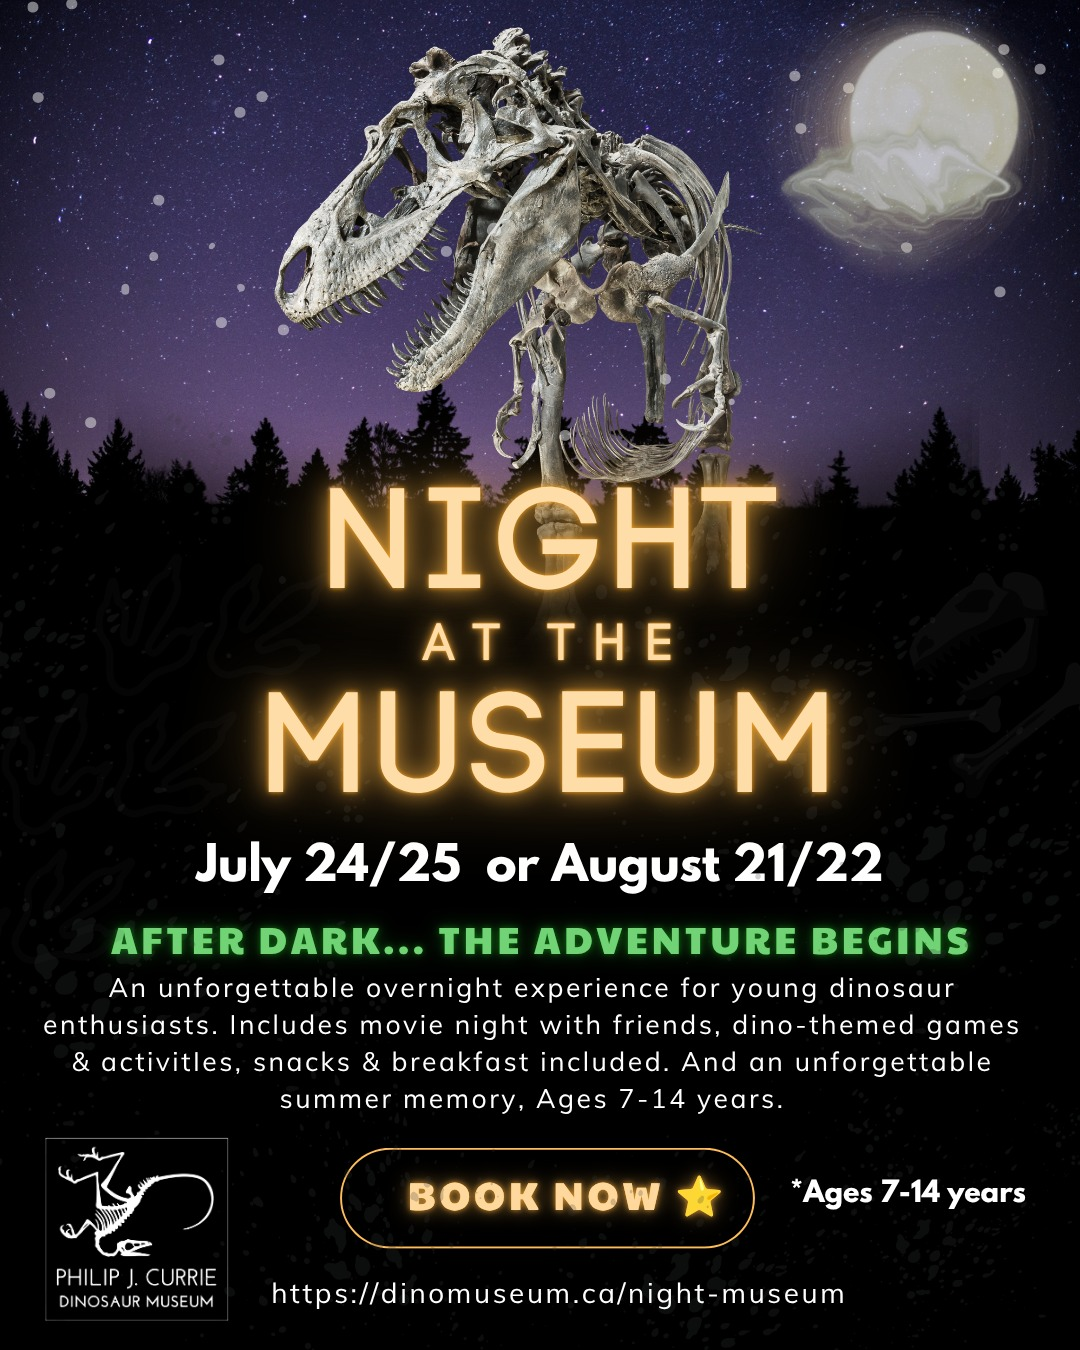
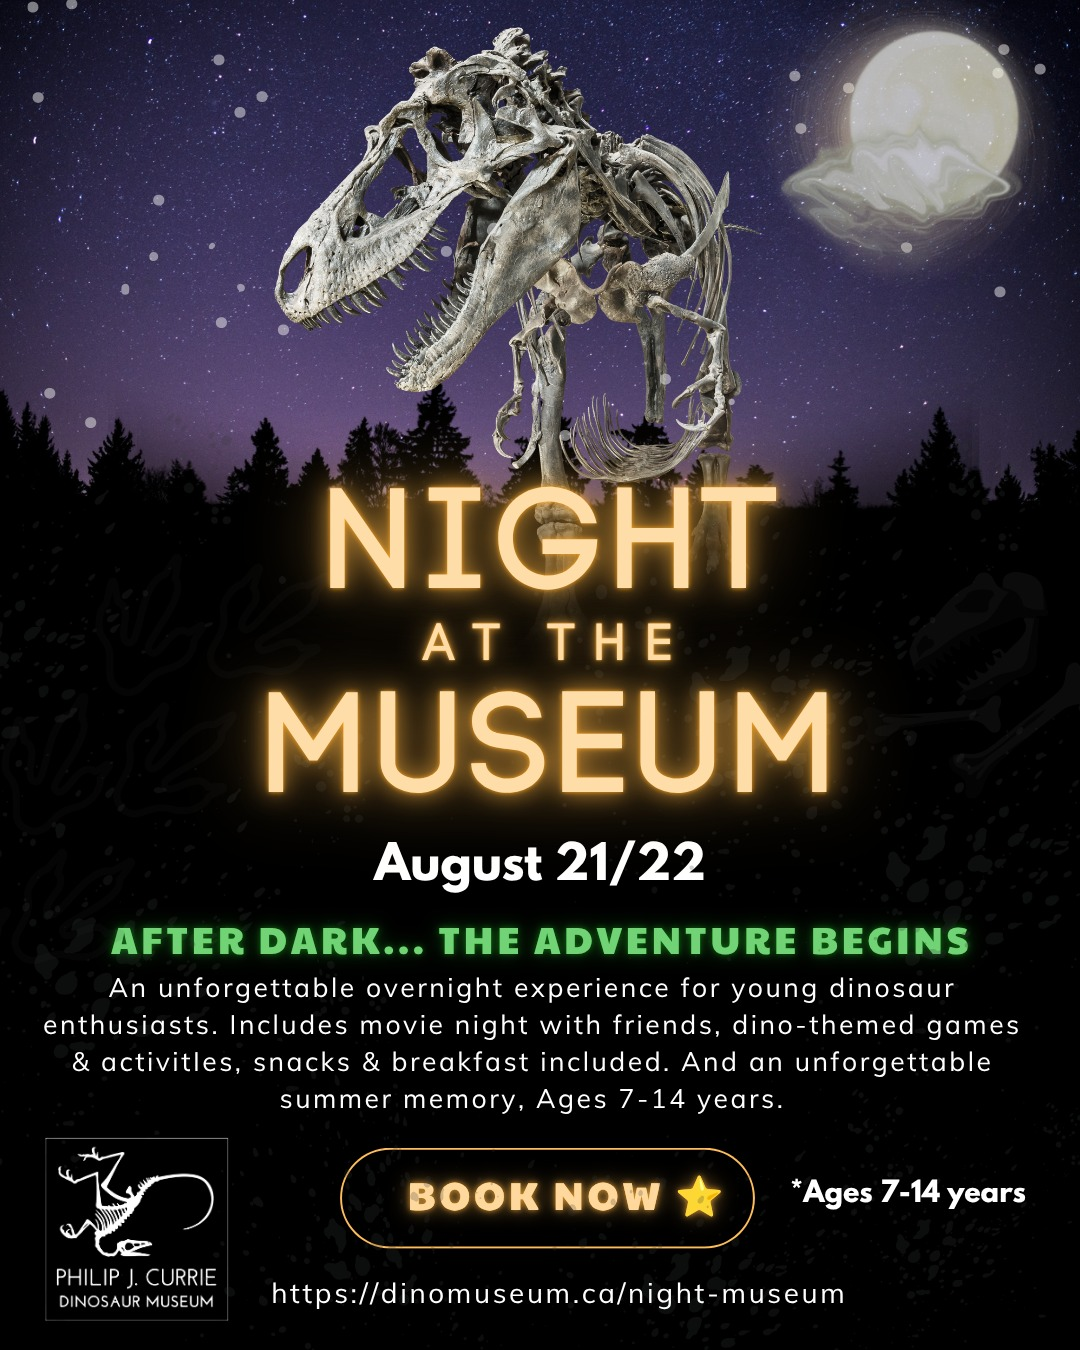
feat: added some events

Changed region(s): [[0.1833, 0.6222, 0.825, 0.6844]]

diff --git a/src/content/events/2026-08-23-franks-lectures-dinosaurs.md b/src/content/events/2026-08-23-franks-lectures-dinosaurs.md
@@ -1,0 +1,32 @@
+---
+title: 'Hunting Giants: The Dinosaurs of Alberta'
+start: '2026-08-23T18:00:00-06:00'
+end: '2026-08-23T20:00:00-06:00'
+type: 'External'
+host: "Frank's Lectures On Tap"
+location: 'Franks Community Pub, 8815 99 St NW, Edmonton, AB'
+image:
+    src: '/events/2026/external/frankslectures-pjc.jpg'
+    alt: "Frank's Lectures On Tap featuring Dr. Philip Currie — Hunting Giants: The Dinosaurs of Alberta"
+detailsLink: 'https://www.showpass.com/franks-lectures-dinosaurs/'
+---
+
+Featuring Professor of Dinosaur Palaeobiology **Dr. Philip Currie**.
+
+**When:** Sunday, August 23, 2026, 6:00 PM – 8:00 PM  
+**Where:** Franks Community Pub, 8815 99 St NW, Edmonton, AB  
+**Cost:** $28.41 CAD  
+
+More than a century ago, Alberta became the epicentre of one of the greatest fossil discoveries in history. Beginning with the “Great Canadian Dinosaur Rush” in 1910, hundreds of spectacular dinosaur skeletons were unearthed from Alberta’s Badlands and shipped to museums around the world, forever changing our understanding of prehistoric life.
+
+Join world-renowned palaeontologist Dr. Philip Currie as he explores the remarkable history of dinosaur discovery in Alberta, from the early fossil expeditions and the birth of Dinosaur Provincial Park and the Royal Tyrrell Museum, to the “Dinosaur Renaissance” that transformed how scientists think about dinosaur behaviour, evolution, and biology.
+
+Today, Alberta remains one of the world’s most important places for dinosaur research. New species continue to be discovered, and advances in technology are revealing extraordinary details about these ancient animals, from feathers and soft tissues to how they lived, hunted, and evolved. Discover why Alberta continues to be at the forefront of palaeontology and why our Badlands still hold secrets waiting to be uncovered.
+
+### Dr. Philip J. Currie
+
+Philip J. Currie is a Professor at the University of Alberta and has published more than 350 scientific papers, 175 popular articles, and 20 books. His fieldwork has taken him across Alberta, British Columbia, Argentina, China, Mongolia, the Arctic, and Antarctica. His many honours include the Alberta Order of Excellence (2010), The Explorers Club Medal (2012), the Royal Canadian Geographical Society Gold Medal (2012), the Romer/Simpson Medal from the Society of Vertebrate Paleontology (2017), and the Roy Chapman Andrews Society Distinguished Explorer’s Award (2022).
+
+Currie is especially proud of his role in developing the Royal Tyrrell Museum of Palaeontology. In 2015, he was honoured with the opening of the Philip J. Currie Dinosaur Museum in Wembley, Alberta. He has supervised more than 30 graduate students, delivered hundreds of lectures on dinosaurs around the world, and is a frequent media commentator on paleontology.
+
+Tickets are available on [Showpass](https://www.showpass.com/franks-lectures-dinosaurs/).

diff --git a/src/content/events/2026-08-21-pjcdm-night-at-museum.md b/src/content/events/2026-08-21-pjcdm-night-at-museum.md
@@ -11,9 +11,21 @@ image:
 detailsLink: 'https://dinomuseum.ca/night-museum'
 ---
 
-Give your young dinosaur enthusiast an unforgettable night at the Philip J. Currie Dinosaur Museum! They'll explore the museum after hours, enjoy a movie with new friends, dive into dinosaur-themed games and activities, and spend the night surrounded by giants from 73 million years ago.
+The museum closes to the public… but your adventure is just beginning.
 
-It's an unforgettable overnight adventure designed for dinosaur enthusiasts **ages 7–14**. Snacks and breakfast are included.
+Imagine spending the night surrounded by towering dinosaurs, exploring the galleries after hours, and experiencing the Philip J. Currie Dinosaur Museum in a way few ever do.
+
+Night at the Museum is an unforgettable overnight experience where young explorers will enjoy:
+
+- Exclusive after-hours access to the museum
+- Flashlight adventures through the galleries
+- A dinosaur movie on the big screen
+- Games, activities, and hands-on discovery
+- A sleepover beneath incredible dinosaur skeletons
+
+Whether it's their first museum sleepover or their biggest dinosaur adventure yet, this is a night they'll be talking about long after morning arrives.
+
+It's designed for dinosaur enthusiasts **ages 7–14**. Snacks and breakfast are included.
 
 **When:** Friday, August 21 – Saturday, August 22, 2026  
 **Drop-off:** 6:30 PM – 7:00 PM  
@@ -21,4 +33,4 @@ It's an unforgettable overnight adventure designed for dinosaur enthusiasts **ag
 **Pick-up:** 9:15 AM – 9:30 AM  
 **Where:** Philip J. Currie Dinosaur Museum, Wembley, AB
 
-Spaces are limited. Book your Night at the Museum on the [museum website](https://dinomuseum.ca/night-museum).
+Spaces are limited. Reserve your spot on the [museum website](https://dinomuseum.ca/night-museum).

diff --git a/src/content/events/2026-08-14-napier-end-of-oak-street.md b/src/content/events/2026-08-14-napier-end-of-oak-street.md
@@ -1,0 +1,24 @@
+---
+title: 'The End of Oak Street Premiere'
+start: '2026-08-14T18:30:00-06:00'
+end: '2026-08-14T21:15:00-06:00'
+type: 'External'
+host: 'Royal Tyrrell Museum of Palaeontology'
+location: 'Napier Theatre, 20 3rd Ave East, Drumheller, AB'
+detailsLink: 'https://www.napiertheatre.com/'
+---
+
+Could you survive being transported to the Mesozoic?
+
+*The End of Oak Street* premieres at the Napier Theatre on Friday, August 14. The movie begins at 7:30 p.m., but doors will open at 6:30 p.m. Arrive early to hear a museum curator discuss dinosaur survival tips, and try to answer some trivia questions!
+
+These activities are free with movie admission.
+
+**When:** Friday, August 14, 2026  
+**Doors:** 6:30 PM  
+**Movie:** 7:30 PM  
+**Where:** Napier Theatre, 20 3rd Ave East, Drumheller, AB  
+
+After a mysterious cosmic event transports a suburban neighbourhood somewhere unknown, the Platt family must stick together to survive among prehistoric creatures.
+
+More information is available on the [Napier Theatre website](https://www.napiertheatre.com/).
